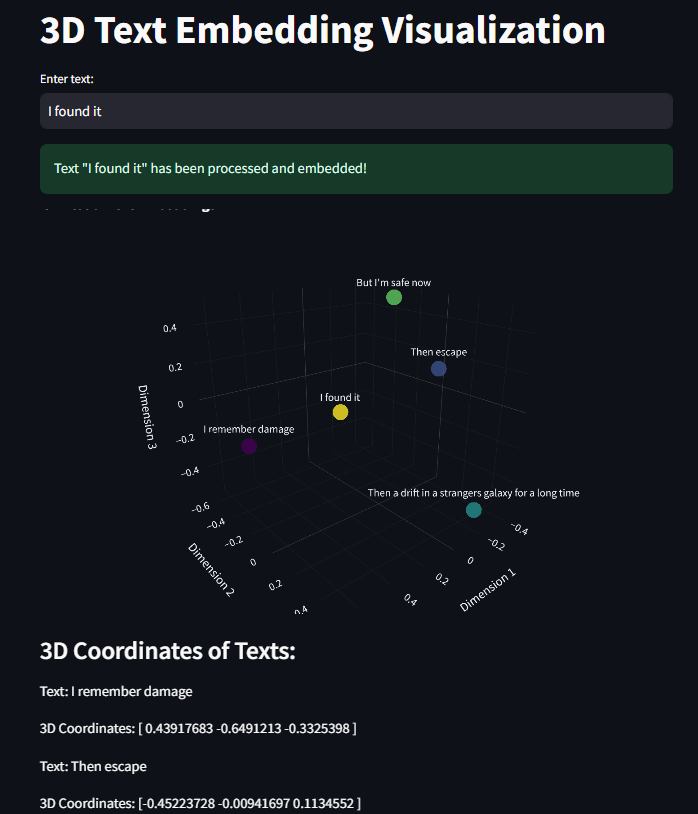
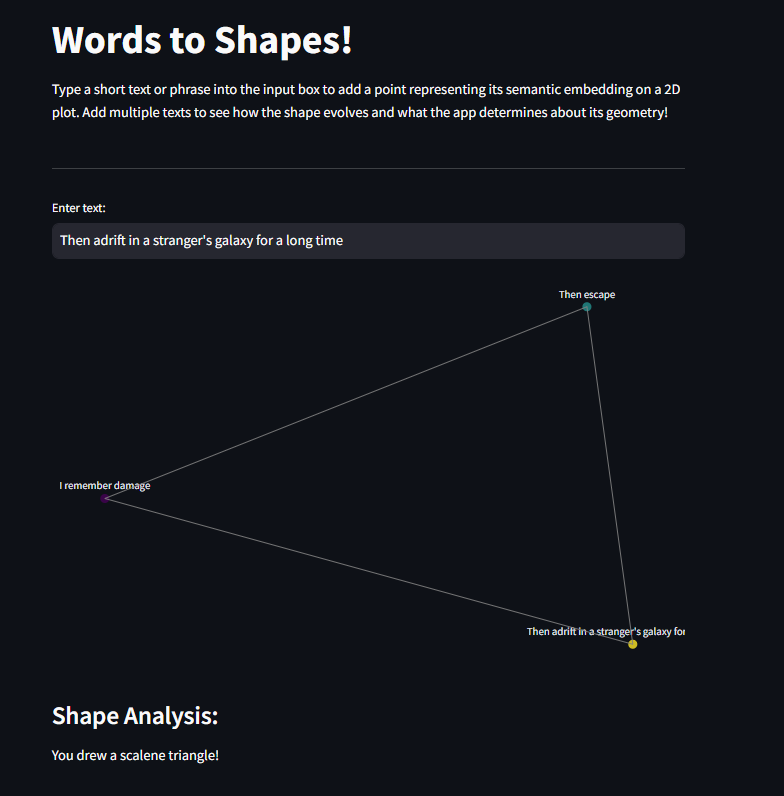
started gamifying the app

diff --git a/app.py b/app.py
@@ -3,87 +3,130 @@ from sentence_transformers import SentenceTransformer
 import numpy as np
 from sklearn.decomposition import PCA
 import plotly.graph_objs as go
+from scipy.spatial.distance import pdist, squareform
 
-# Load the pre-trained model (you can use 'e5-base-v2' or any similar model)
 @st.cache_resource
 def load_model():
     return SentenceTransformer('sentence-transformers/all-MiniLM-L6-v2')
 
+def analyze_shape(embeddings_2d): # Temporary placeholder for proper geometry analysis and scoring
+    distances = pdist(embeddings_2d, 'euclidean')
+    dist_matrix = squareform(distances)
+    edge_distances = [dist_matrix[i, (i + 1) % len(embeddings_2d)] for i in range(len(embeddings_2d))]
+    rounded_distances = np.round(edge_distances, decimals=2)
+    unique_distances = np.unique(rounded_distances)
+    num_points = len(embeddings_2d)
+    
+    if num_points < 3:
+        return "Not enough points to form a shape."
+    if num_points == 3:
+        if len(unique_distances) == 1:
+            return "You drew an equilateral triangle!"
+        elif len(unique_distances) == 2:
+            return "You drew an isosceles triangle!"
+        else:
+            return "You drew a scalene triangle!"
+    if num_points == 4:
+        if len(unique_distances) == 1:
+            return "Wow, you drew a square!"
+        elif len(unique_distances) == 2:
+            return "You drew a rectangle or a rhombus!"
+        else:
+            return "You drew a quadrilateral!"
+    if len(unique_distances) == 1:
+        return f"You drew a regular {num_points}-sided polygon!"
+    else:
+        return f"You drew an irregular {num_points}-sided shape!"
+
 model = load_model()
 
-# Initialize session state for storing embeddings and texts
 if 'texts' not in st.session_state:
     st.session_state['texts'] = []
 if 'embeddings' not in st.session_state:
     st.session_state['embeddings'] = []
 
-# Title
-st.title("3D Text Embedding Visualization")
+st.title("Words to Shapes!")
+st.write("Type a short text or phrase into the input box to add a point representing its semantic embedding on a 2D plot. Add multiple texts to see how the shape evolves and what the app determines about its geometry!")
 
-# Text input
+st.divider()
+
 text_input = st.text_input("Enter text:")
 
-# Process the text
 if text_input:
     st.session_state['texts'].append(text_input)
     
-    # Generate embeddings
     embedding = model.encode(text_input, convert_to_tensor=False)
     st.session_state['embeddings'].append(embedding)
-    
-    # Notify the user
-    st.success(f'Text "{text_input}" has been processed and embedded!')
 
-# Only proceed if we have at least one embedding
 if len(st.session_state['embeddings']) > 0:
-    embeddings_2d = np.array(st.session_state['embeddings'])
+    embeddings = np.array(st.session_state['embeddings'])
 
-    if len(embeddings_2d) == 1:
-        # Case 1: Only one text - manually reduce to 3 dimensions by truncating
-        embedding_3d = embeddings_2d[0][:3]  # Take the first 3 dimensions directly
-        embeddings_3d = np.array([embedding_3d])  # Convert to a 2D array with one row
-    elif len(embeddings_2d) >= 3:
-        # Case 2: Apply PCA if there are 3 or more texts
-        pca = PCA(n_components=3)
-        embeddings_3d = pca.fit_transform(embeddings_2d)
-    else:
-        # Case 3: Two texts - reduce to 2 dimensions with PCA
+    if len(embeddings) > 1:
         pca = PCA(n_components=2)
-        embeddings_2d_pca = pca.fit_transform(embeddings_2d)
-        embeddings_3d = np.hstack([embeddings_2d_pca, np.zeros((embeddings_2d_pca.shape[0], 1))])  # Add a zero z-axis
+        embeddings_2d = pca.fit_transform(embeddings)
+    else:
+        embeddings_2d = np.hstack([embeddings, np.zeros((len(embeddings), 1))])
 
-    # Create a 3D plot using Plotly
-    trace = go.Scatter3d(
-        x=embeddings_3d[:, 0], 
-        y=embeddings_3d[:, 1], 
-        z=embeddings_3d[:, 2],
+    trace_nodes = go.Scatter(
+        x=embeddings_2d[:, 0], 
+        y=embeddings_2d[:, 1], 
         mode='markers+text',
         text=st.session_state['texts'],
+        textposition="top center",
         marker=dict(
             size=10,
-            color=np.arange(len(st.session_state['texts'])),  # Assign a unique color per point
+            color=np.arange(len(st.session_state['texts'])), 
             colorscale='Viridis',
             opacity=0.8
         )
     )
+    
+    if len(embeddings_2d) > 1:
+        x_edges = []
+        y_edges = []
+        for i in range(1, len(embeddings_2d)):
+            x_edges.extend([embeddings_2d[i - 1, 0], embeddings_2d[i, 0], None])
+            y_edges.extend([embeddings_2d[i - 1, 1], embeddings_2d[i, 1], None])
+        x_edges.extend([embeddings_2d[-1, 0], embeddings_2d[0, 0], None])
+        y_edges.extend([embeddings_2d[-1, 1], embeddings_2d[0, 1], None])
+
+        trace_edges = go.Scatter(
+            x=x_edges,
+            y=y_edges,
+            mode='lines',
+            line=dict(color='gray', width=1),
+            hoverinfo='none'
+        )
+    else:
+        trace_edges = None
+
+    padding = 0.1
+
+    x_min, x_max = embeddings_2d[:, 0].min(), embeddings_2d[:, 0].max()
+    y_min, y_max = embeddings_2d[:, 1].min(), embeddings_2d[:, 1].max()
+
+    x_range = [x_min - padding * abs(x_max - x_min), x_max + padding * abs(x_max - x_min)]
+    y_range = [y_min - padding * abs(y_max - y_min), y_max + padding * abs(y_max - y_min)]
 
     layout = go.Layout(
-        title="3D Plot of Text Embeddings",
-        scene=dict(
-            xaxis_title="Dimension 1",
-            yaxis_title="Dimension 2",
-            zaxis_title="Dimension 3"
-        ),
-        margin=dict(l=0, r=0, b=0, t=0)
+        title=None,
+        xaxis=dict(title=None, showgrid=False, zeroline=False, showticklabels=False, range=x_range),
+        yaxis=dict(title=None, showgrid=False, zeroline=False, showticklabels=False, range=y_range),
+        margin=dict(l=0, r=0, b=0, t=0),
+        showlegend=False
     )
 
-    fig = go.Figure(data=[trace], layout=layout)
+    fig = go.Figure(data=[trace_nodes] + ([trace_edges] if trace_edges else []), layout=layout)
 
-    # Display the plot
     st.plotly_chart(fig)
 
-    # Display the raw 3D coordinates
-    st.subheader("3D Coordinates of Texts:")
+    shape_description = analyze_shape(embeddings_2d)
+    st.subheader("Shape Analysis:")
+    st.write(shape_description)
+    
+    st.divider()
+
+    st.subheader("2D Coordinates of Texts:")
     for i, text in enumerate(st.session_state['texts']):
         st.write(f"Text: {text}")
-        st.write(f"3D Coordinates: {embeddings_3d[i]}")
+        st.write(f"2D Coordinates: {embeddings_2d[i]}")

diff --git a/README.md b/README.md
@@ -1,50 +1,28 @@
-# 3D Text Embedding Visualization with Streamlit
-This application visualizes text embeddings in 3D space, reducing high-dimensional vector representations (generated using a pre-trained model) down to three dimensions using PCA. Users can input multiple text strings, which are embedded, reduced, and plotted interactively on a 3D graph.
+# Words to Shapes!
 
-![3D Plot Example](example.png)
+## 2D Text Embedding Visualization with Streamlit
 
-## Features
+This application visualizes text embeddings in 2D space, reducing high-dimensional vector representations (generated using a pre-trained model) down to two dimensions using Principal Component Analysis (PCA). Users can input multiple text strings, which are embedded, reduced, and plotted interactively on a 2D graph, with lines connecting consecutive inputs to form shapes.
+
+![2D Plot Example](example.png)
+
+### Features
 - **Text Embedding**: Converts input text into high-dimensional embeddings using a Sentence Transformer model.
-- **Dimensionality Reduction**: Embeddings are reduced from 768 dimensions to 3 using Principal Component Analysis (PCA).
-- **Dynamic Plotting**: Multiple text inputs are visualized as 3D points on an interactive Plotly graph. Supports varying numbers of inputs with appropriate handling for 1D, 2D, and 3D scenarios.
+- **Dimensionality Reduction**: Embeddings are reduced from 768 dimensions to 2 using Principal Component Analysis (PCA).
+- **Dynamic Plotting**: Multiple text inputs are visualized as 2D points on an interactive Plotly graph. Each point is connected to the previous one, with the last point linked back to the first, forming a closed shape.
+- **Shape Analysis**: The app analyzes the shape formed by the points and provides feedback on the identified shape, such as "You drew an equilateral triangle!" or "You drew a square!"
 
-## Setup Instructions
 ### Prerequisites
 Ensure the following dependencies are installed:
 
- - streamlit
- - sentence-transformers
- - scikit-learn
- - plotly
-Install the dependencies using pip:
+- `streamlit`
+- `sentence-transformers`
+- `scikit-learn`
+- `plotly`
 
-```
-bash
-Copy code
-pip install streamlit sentence-transformers scikit-learn plotly
-Running the Application
-Clone the repository:
-```
-```
-bash
-Copy code
-git clone https://github.com/your-username/repository-name.git
-cd repository-name
-Run the Streamlit app:
-```
-```
-bash
-Copy code
-streamlit run app.py
-Open the provided URL in your browser to interact with the application.
-```
-## How It Works
-1. Enter any text into the input box.
-2. The app will generate vector embeddings (typically 768 dimensions).
-3. Embeddings are reduced to 3D using PCA (or truncated if necessary).
-4. Each input is visualized as a point on a 3D scatter plot.
-
-## Edge Cases
- - **Single Text Input**: The embedding is truncated to 3 dimensions, allowing it to be plotted directly.
- - **Two Text Inputs**: Reduced to 2 dimensions and plotted on a 2D plane, with a z-axis of zero.
- - Three or More Inputs: Standard PCA reduction to 3 dimensions is applied.
+### How It Works
+1. Enter Text: Input any text into the provided input box.
+2. Generate Embeddings: The app generates vector embeddings (currently 768 dimensions).
+3. Dimensionality Reduction: Embeddings are reduced to 2D using PCA.
+4. Visualization: Each input is visualized as a point on a 2D scatter plot, with lines connecting consecutive points and forming a closed loop.
+5. Shape Analysis: The app analyzes the resulting shape and displays its analysis.
